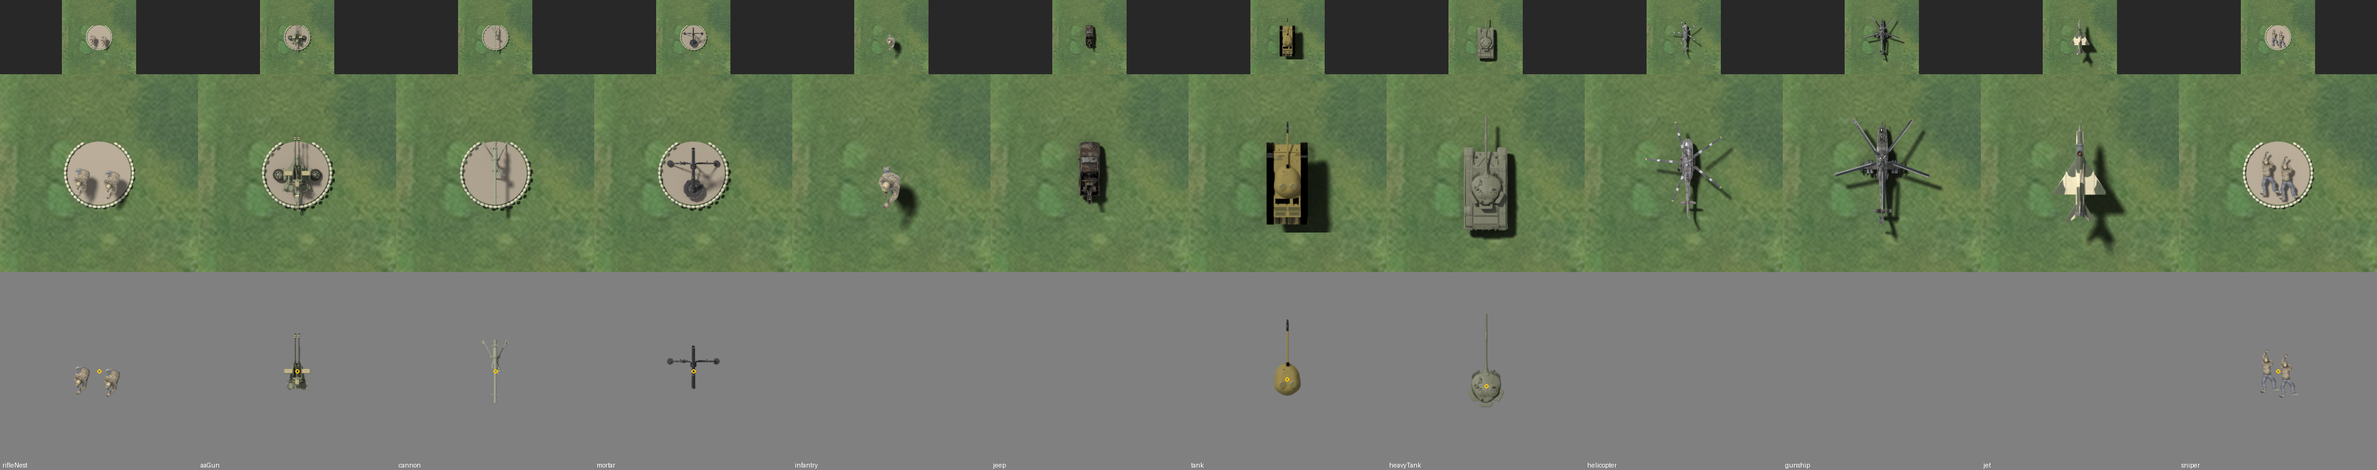
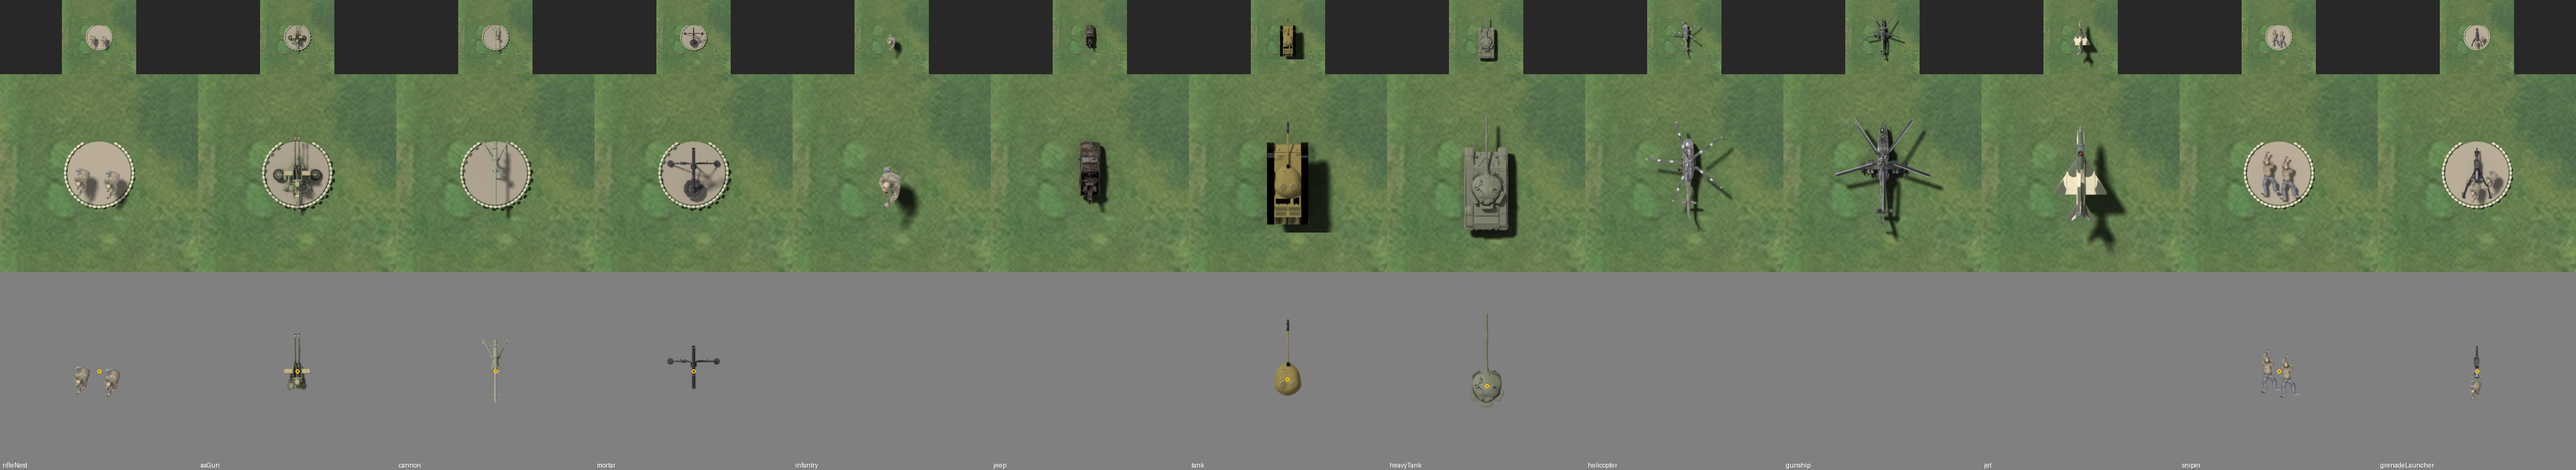
feat: Insurgents Grenade launcher render (#533)
Closes #469

Stacked on #529 (China Grenade launcher), which is stacked on the Russia part. Last of the four Grenade launcher render parts (#359): with this, every Faction has the kind's render. It stays art-ahead (out of `RENDERS`) until the rollout issue puts it in play.

## Summary

```
insurgents-grenade-launcher  (scripts/render-sprite.json, kind grenadeLauncher)
├─ main   "AGS-17 Plamya FBX" by Jeyhun1985, CC-BY-4.0   frontAxis +x, lengthTiles 0.64
│   ├─ turret: launcher assembly (allBut the tripod assembly)
│   └─ hull:   "Ensamble general del tripode AGS17:1" (its own SAG-17 tripod)
├─ part   Tactical Soldier (MissingTray1151) gunner, turret layer, at the grips
├─ part   Tactical Soldier, assistant gunner, hull, to the right
│         (both in the Insurgents Rifle Nest's civilian browns and denim)
└─ base   sandbagged pit, radius 0.4, gap 50°, canvas 1.25 tiles (ADR-0009 pt 2, same as the other three)
```

- It's the exact type, a captured Soviet AGS-17 on its own tripod, so `depicts` names no stand-in.
- New files: `assets/render-insurgents-grenade-launcher/` (sprite, hull, turret, pivot JSON, turntable at 273 KB of the 300 KB budget, `License.txt`). Also updated: the `assets/manifest.json` entry (placed before the soldier entry, which now also lists this folder), `CREDITS.md`, the Credits aria snapshot, the `docs/assets.md` row, an ADR-0009 note, and `docs/art/faction-insurgents.png`.
[…]

diff --git a/src/data/turntables.test.ts b/src/data/turntables.test.ts
@@ -17,9 +17,11 @@ const inPlay = config.models.filter((m) => !isUpcoming(m.kind));
 const hasTurntable = (m: { id: string }): boolean => TURNTABLES[m.id] !== undefined;
 /**
  * Towers and units come in separate parts (China's towers before its units), so each is done on its own. The jet's art
- * is ahead of its gameplay (#77), so it is a part of its own (China and Insurgents have it before their unit turntables).
+ * is ahead of its gameplay (#77), so it is a part of its own (China and Insurgents have it before their unit turntables),
+ * and so is the Grenade launcher (#359: Insurgents have it before their tower turntables).
  */
-const groupOf = (m: { kind: string }): string => (m.kind in TOWER_STATS ? 'tower' : m.kind === 'jet' ? 'jet' : 'unit');
+const groupOf = (m: { kind: string }): string =>
+  m.kind === 'jet' || m.kind === 'grenadeLauncher' ? m.kind : m.kind in TOWER_STATS ? 'tower' : 'unit';
 const key = (m: { faction: string; kind: string }): string => `${m.faction}/${groupOf(m)}`;
 /** The models of the factions that have a turntable (done when a faction has one of its group; it must then have all). */
 const done = inPlay.filter((m) => inPlay.some((o) => key(o) === key(m) && hasTurntable(o)));

diff --git a/src/data/renders.test.ts b/src/data/renders.test.ts
@@ -95,8 +95,8 @@ describe('the committed Sniper renders (art-ahead: not in RENDERS until #364 put
 });
 
 describe('the committed Grenade launcher renders (art-ahead: not in RENDERS until #359 puts it in play)', () => {
-  // The Factions whose Grenade launcher is rendered so far: US (#464), Russia (#467), China (#468). The last part of #359 adds its own.
-  for (const faction of ['us', 'russia', 'china']) {
+  // Every Faction: US (#464), Russia (#467), China (#468), Insurgents (#469).
+  for (const faction of FACTIONS) {
     const id = `${faction}-grenade-launcher`;
     const dir = `assets/render-${id}`;
 

diff --git a/tests/render-pivot.test.ts b/tests/render-pivot.test.ts
@@ -264,8 +264,8 @@ describe('the Sniper renders (art-ahead, #358)', () => {
 describe('the Grenade launcher renders (art-ahead, #359)', () => {
   const launchers = RENDER_CONFIG.models.filter((m) => m.kind === 'grenadeLauncher');
 
-  it('covers the Factions done so far: US (#464)', () => {
-    expect(launchers.map((m) => m.faction)).toEqual(expect.arrayContaining(['us']));
+  it('covers every Faction, one each (#464, #467, #468, #469)', () => {
+    expect(launchers.map((m) => m.faction).sort()).toEqual([...FACTIONS].sort());
   });
 
   for (const model of launchers) {

diff --git a/CREDITS.md b/CREDITS.md
@@ -380,14 +380,23 @@ Third-party assets in this game. Generated from `assets/manifest.json` by `npm r
 - Downloaded: 2026-11-11
 - Files: `assets/render-china-jet/**`
 
+## AGS-17 Plamya FBX (top-down render and turntable)
+
+- Author: Jeyhun1985
+- Source: <https://sketchfab.com/3d-models/c1d507d1b4dc40ef91809ee64dc9dd5b>
+- License: CC-BY-4.0
+- Attribution: "AGS-17 Plamya FBX" by Jeyhun1985 (sketchfab.com), CC-BY 4.0, rendered top-down on its tripod with a crew, in a sandbagged pit of our own, launcher split from the tripod, plus a turntable of the whole scene (24 views from 30 degrees up) for the Field manual
+- Downloaded: 2026-11-11
+- Files: `assets/render-insurgents-grenade-launcher/**`
+
 ## Tactical Soldier (game ready) low poly (top-down render)
 
 - Author: MissingTray1151
 - Source: <https://sketchfab.com/3d-models/2bfce585144d4403a3ddf76a0e65767a>
 - License: CC-BY-4.0
-- Attribution: "Tactical Soldier (game ready) low poly" by MissingTray1151 (sketchfab.com), CC-BY 4.0, rendered top-down, posed crouching and aiming (its crouch_firing animation), kit re-coloured to civilian browns and denim, two copies set in a sandbagged pit of our own
+- Attribution: "Tactical Soldier (game ready) low poly" by MissingTray1151 (sketchfab.com), CC-BY 4.0, rendered top-down, posed crouching and aiming (its crouch_firing animation), kit re-coloured to civilian browns and denim, two copies set in a sandbagged pit of our own; also the Grenade launcher's gunner and assistant gunner, crouched beside it
 - Downloaded: 2026-11-02
-- Files: `assets/render-insurgents-rifle-nest/**`
+- Files: `assets/render-insurgents-rifle-nest/**`, `assets/render-insurgents-grenade-launcher/**`
 
 ## SPG-9 (top-down render)
 

diff --git a/docs/assets.md b/docs/assets.md
@@ -242,6 +242,7 @@ Don't use plain `python3` (3.13 in the cloud image, where pip offers only `bpy` 
 | `render-china-tank/` | "Type 99 MBT" by philano, CC-BY-4.0 | `scripts/render-sprite.py` |
 | `render-china-helicopter/` | "Sikorsky UH-60M Blackhawk" by MirzaArrafiERV_45, CC-BY-4.0 | `scripts/render-sprite.py` |
 | `render-insurgents-rifle-nest/` | "Tactical Soldier (game ready) low poly" by MissingTray1151, CC-BY-4.0 | `scripts/render-sprite.py` |
+| `render-insurgents-grenade-launcher/` | "AGS-17 Plamya FBX" by Jeyhun1985, "Tactical Soldier (game ready) low poly" by MissingTray1151, both CC-BY-4.0 | `scripts/render-sprite.py` (`parts`) |
 | `render-insurgents-cannon/` | "SPG-9" by Jack512kb, CC-BY-4.0 | `scripts/render-sprite.py` |
 | `render-insurgents-aa-gun/` | "ZU - 23, зенитная установка, ЗУ-23, зенитка" by LuckySkink9661, CC-BY-4.0 | `scripts/render-sprite.py` |
 | `render-insurgents-mortar/` | "Pindad Mortars" by sakigakefuruzawa, CC-BY-4.0 | `scripts/render-sprite.py` |

diff --git a/docs/adr/0009-satellite-milsim-art-and-factions.md b/docs/adr/0009-satellite-milsim-art-and-factions.md
@@ -53,6 +53,8 @@ Updated 2026-11-11 (#467): the Russia Grenade launcher is an AGS-40 Balkan on it
 
 Updated 2026-11-11 (#468): the China Grenade launcher is the QLZ-87 itself, on the US render's stand-in tripod (the model has no mount), with the China Rifle Nest's soldier as gunner and assistant.
 
+Updated 2026-11-11 (#469): the Insurgents Grenade launcher is the AGS-17 itself on its own tripod (a captured Soviet weapon), with the Insurgents Rifle Nest's soldier as gunner and assistant. All four Factions now have the kind's render.
+
 Picks match the stats: the Jeep has no armor (so no armored Humvee or Tigr), the Helicopter has light armor (a transport, not an Apache or Hind), and the AA Gun is a fast-firing gun that also hits ground targets.
 
 ## Consequences
